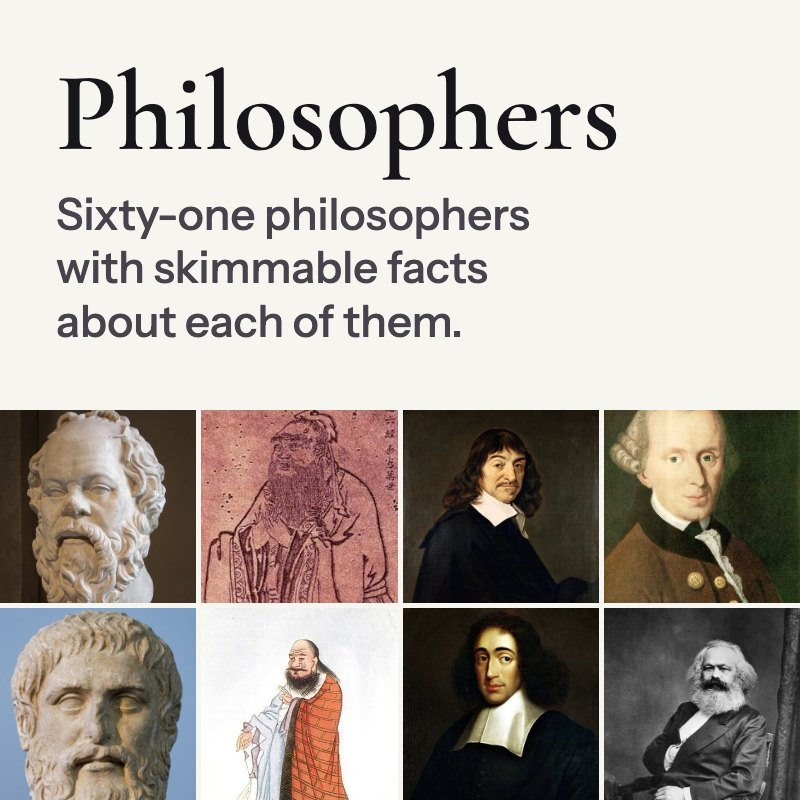
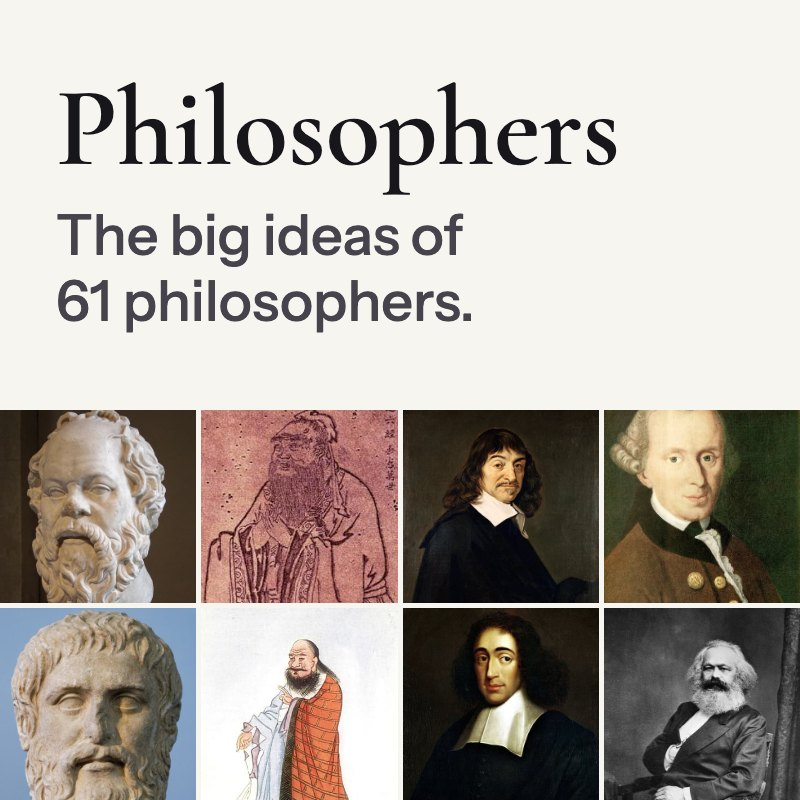
Slack preview: 'The big ideas of 61 philosophers.' at a larger size

Changed region(s): [[0.0625, 0.0625, 0.7812, 0.4375]]

diff --git a/scripts/og.ts b/scripts/og.ts
@@ -69,7 +69,7 @@ function slackHome() {
   return shell(
     `<div class="abs" style="left:0;right:0;top:0;height:410px;padding:0 56px;display:flex;flex-direction:column;justify-content:center">
       <div class="d" style="font-size:112px;line-height:.95;white-space:nowrap">Philosophers</div>
-      <div style="font-size:44px;line-height:1.22;color:#46434c;margin-top:20px;font-weight:500;text-wrap:balance">Sixty-one philosophers with skimmable facts about each of them.</div></div>
+      <div style="font-size:56px;line-height:1.18;color:#46434c;margin-top:20px;font-weight:500;text-wrap:balance">The big ideas of 61 philosophers.</div></div>
     <div class="abs" style="left:0;right:0;bottom:0;height:390px;display:grid;grid-template-columns:repeat(4,1fr);grid-template-rows:repeat(2,1fr);gap:5px;background:#f7f5f0">${tiles}</div>`,
     "#f7f5f0",
     "#17161b",
